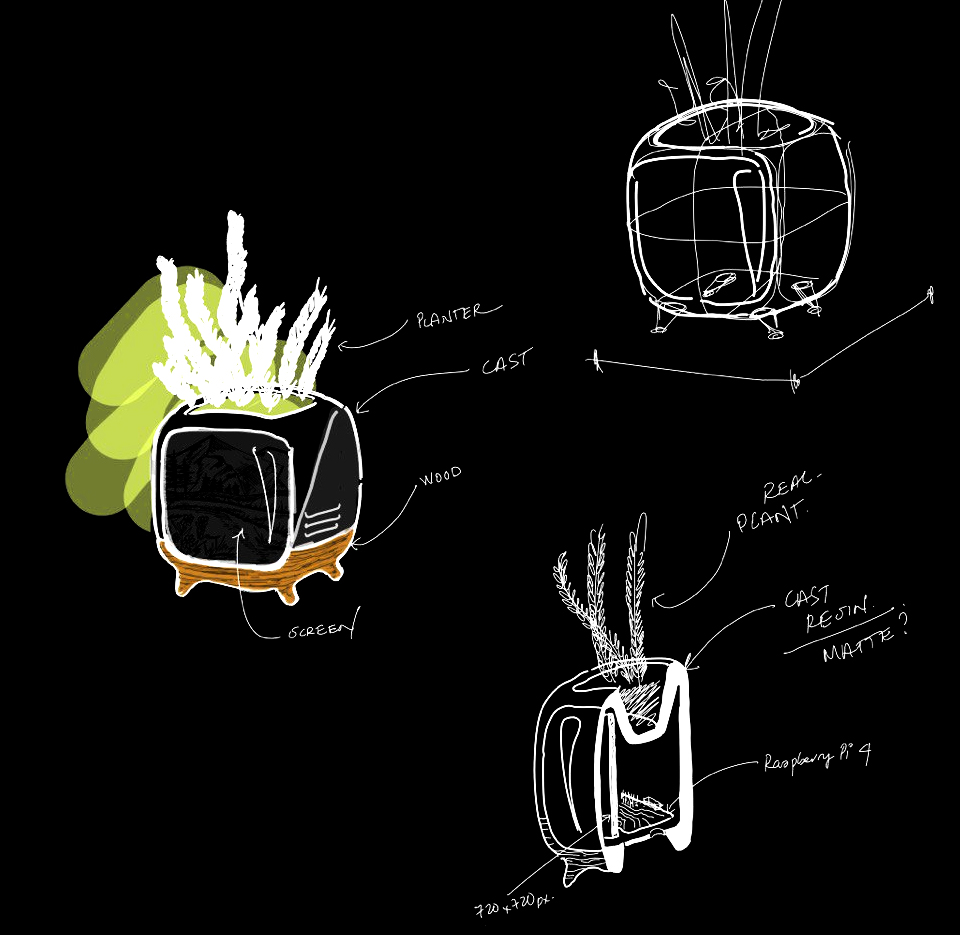
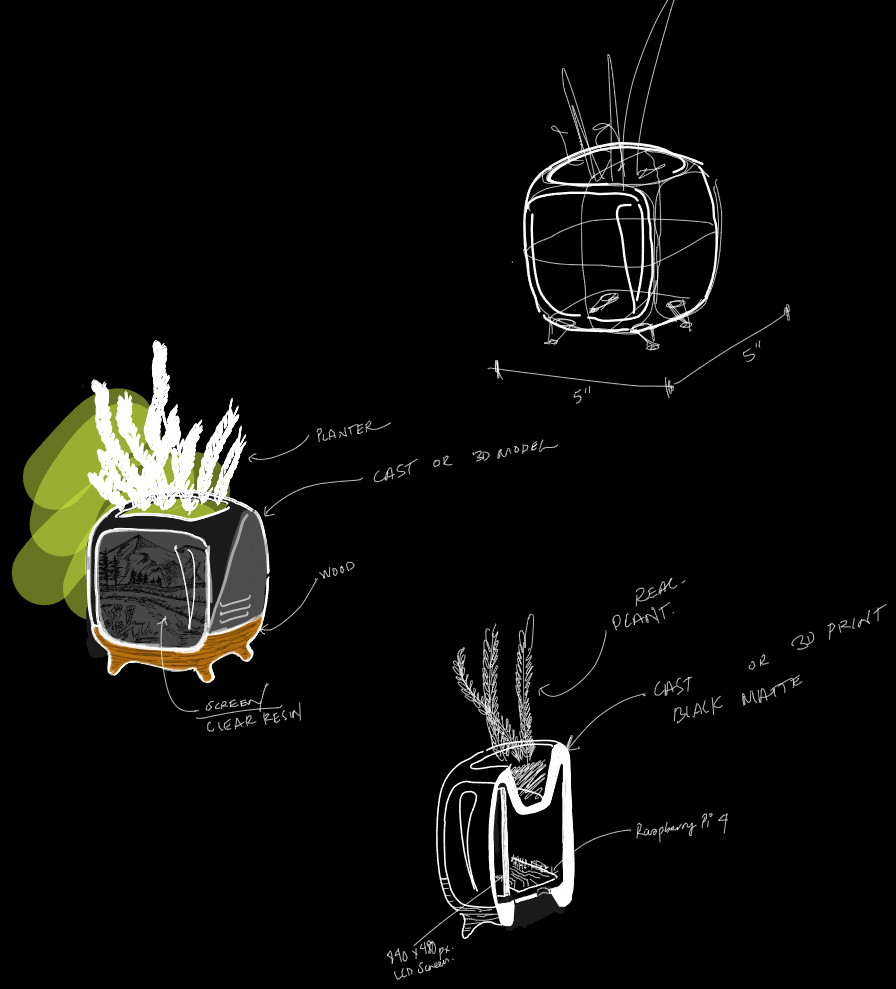
A08u

diff --git a/assignment8.html b/assignment8.html
@@ -15,9 +15,10 @@
           <h1>A08: Final Project</h1>
           <p>&nbsp;</p>
           <p>Let's prepare our final deliverable. I will be focusing in creating a small TV that could run different photos and animations somewhere around my desk. It will include a planter at the top as well. It will be powered by a Raspberry Pi.</p>
-          <p><img src="A8/sketches2.jpg" width="764" height="698" alt=""/></p>
+          <p><img src="A8/sketches2.jpg" width="816" height="846" alt=""/></p>
           <p><strong>-- SCHEDULE -- </strong></p>
           <p>.   .<img src="A8/schedule.jpg" width="758" height="352" alt=""/></p>
+          <p>&nbsp;</p>
           <p>&nbsp;</p>
           <p><strong>-- BILL OF MATERIALS --</strong></p>
           <p>&nbsp;          </p>
